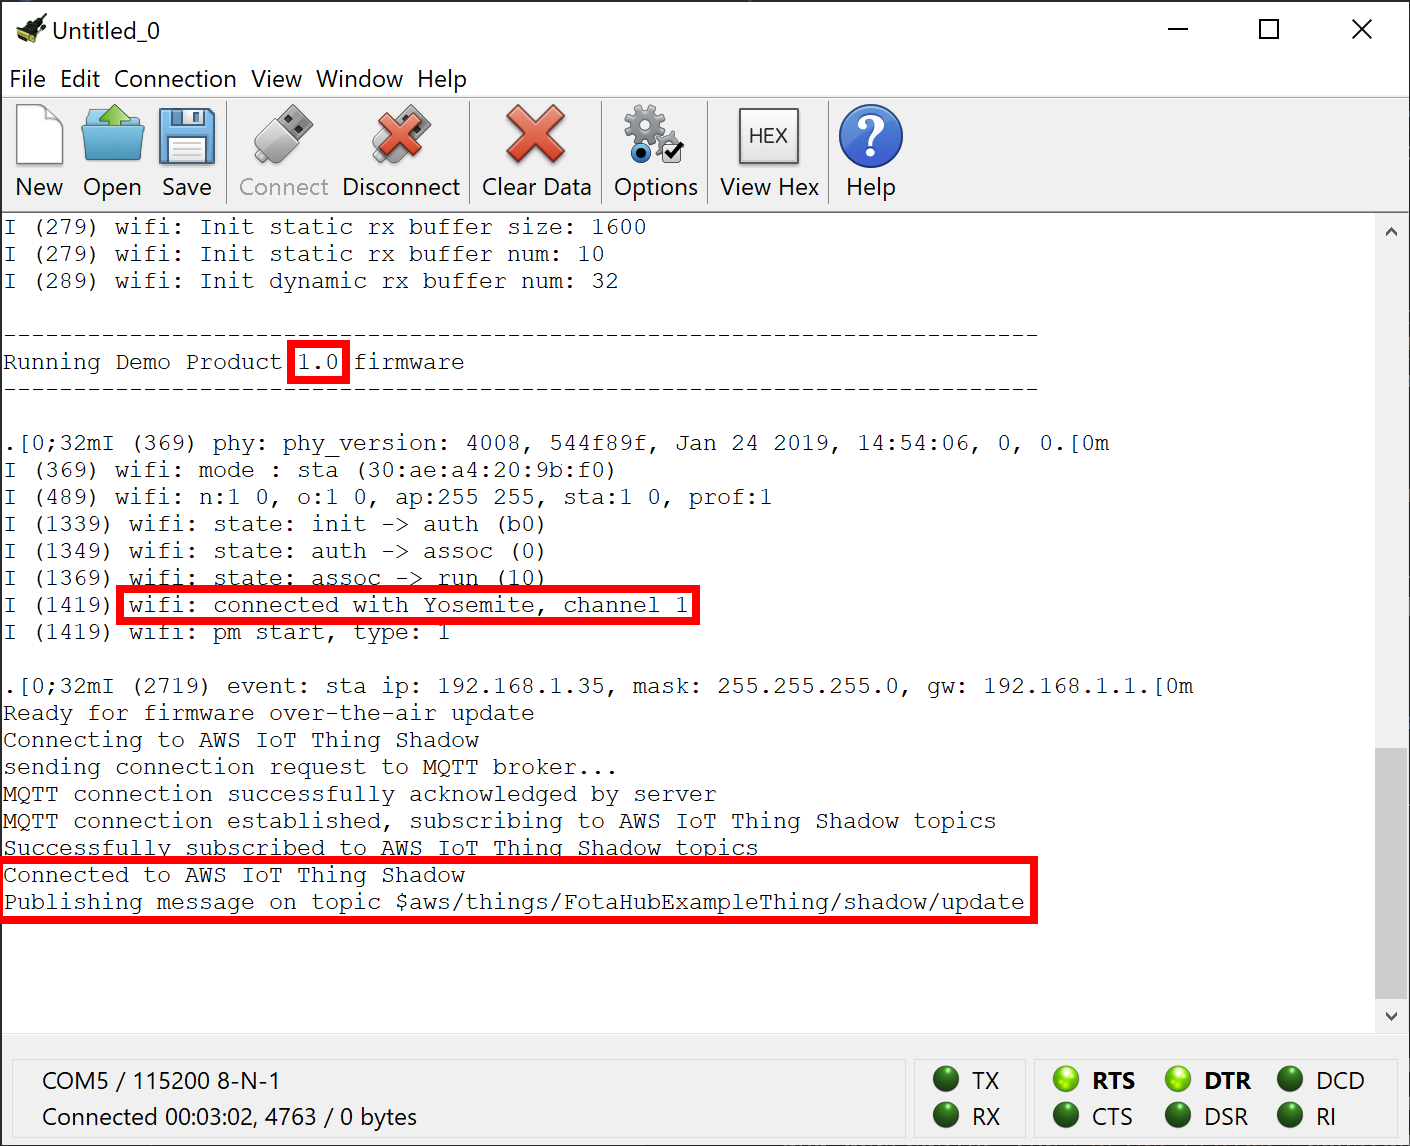
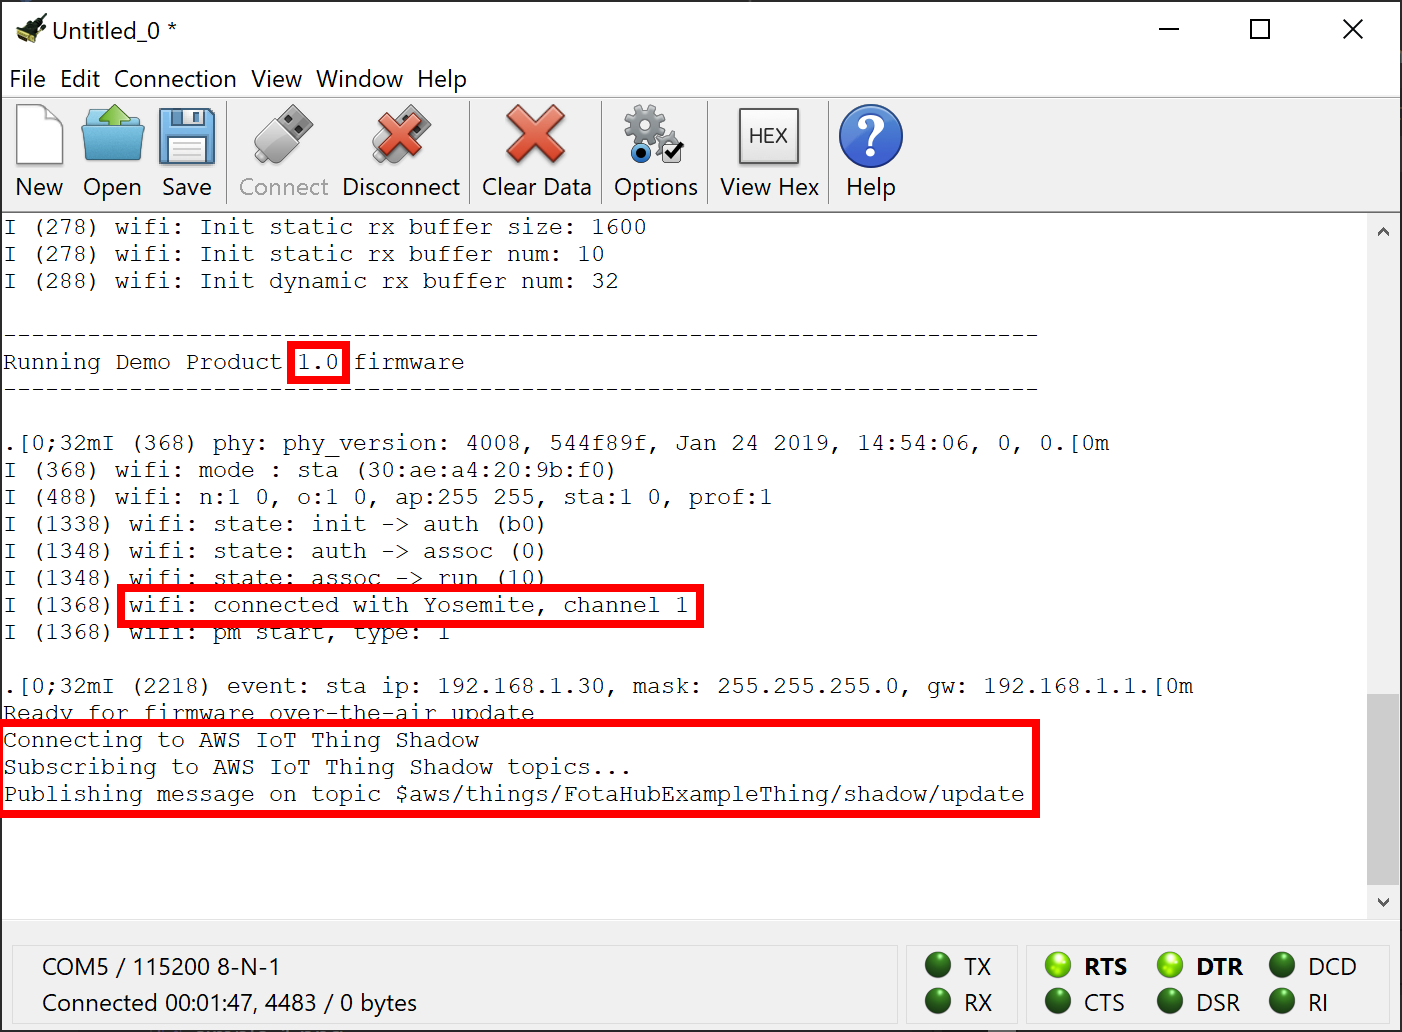
FotaHub Device SDK for ESP32 1.0.0-10

diff --git a/examples/huzzah32/thingshadow/demoproduct/MQTTClientImpl.c b/examples/huzzah32/thingshadow/demoproduct/MQTTClientImpl.c
@@ -288,8 +288,6 @@ bool MQTTClientImpl_mqttClient_sendPublishMessage(const void* hSession, char *to
 void MQTTClientImpl_mqttClient_disconnect(const void* hSession, void *___id)
 {
   MQTTClientImpl__cdata_t *___cid = ((MQTTClientImpl__cdata_t *) ___id);
-  printf("Disconnecting...\n");
-  
   MQTTSessionData_t *pSessionData = ((MQTTSessionData_t *) hSession);
   if (MQTTClientImpl_isMQTTSessionDataDeleted(pSessionData, ___cid)) 
   {
@@ -324,7 +322,6 @@ void MQTTClientImpl_clientSocketHandler_connected(const void* hSession, void *__
   }
   
   pSessionData->hSocketSession = hSession;
-  printf("sending connection request to MQTT broker...\n");
   
   (*___cid->socket__ops->sendDatagram)(hSession, pSessionData->pConnDatagram, NULL, ___cid->socket__ops->__instance);
   pSessionData->pConnDatagram = NULL;
@@ -438,7 +435,6 @@ void MQTTClientImpl_clientSocketHandler_datagramReceived(const void* hSession, D
       }
       case MQTT_MSG_PINGRESP:
       {
-        printf("Ping SUCCEEDED!\n");
         MQTTClientImpl_cleanupReceivedDatagram(pSessionData, ___cid);
         if (___cid->keepAliveTimeoutTimer__ops != NULL) 
         {
@@ -471,7 +467,6 @@ void MQTTClientImpl_clientSocketHandler_datagramReceived(const void* hSession, D
 void MQTTClientImpl_clientSocketHandler_disconnected(const void* hSession, void *___id)
 {
   MQTTClientImpl__cdata_t *___cid = ((MQTTClientImpl__cdata_t *) ___id);
-  printf("Disconnected from server!\n");
   MQTTSessionData_t *pSessionData = ((MQTTSessionData_t *)((*___cid->socket__ops->getUserData)(hSession, ___cid->socket__ops->__instance)));
   if (MQTTClientImpl_isMQTTSessionDataDeleted(pSessionData, ___cid)) 
   {
@@ -555,7 +550,7 @@ void MQTTClientImpl_keepAliveTimerHandler_expired(void *___id)
   {
     if (___cid->mqttSessions__field[__i].busy) 
     {
-      printf("Sending MQTT ping message...\n");
+      printf("Issuing MQTT ping request\n");
       Datagram_t *pingReqMsg = (*___cid->socket__ops->newDatagram)(NULL, PINGREQ_MESSAGE_LENGTH, PROTOCOL_SPECIFIC, ___cid->socket__ops->__instance);
       size_t len = ((size_t)(MQTTSerialize_pingreq(pingReqMsg->pVisiblePayload, ((int32_t)(pingReqMsg->visiblePayloadLength)))));
       if (len < PINGREQ_MESSAGE_LENGTH) 
@@ -577,10 +572,10 @@ void MQTTClientImpl_keepAliveTimeoutHandler_expired(void *___id)
 {
   MQTTClientImpl__cdata_t *___cid = ((MQTTClientImpl__cdata_t *) ___id);
   /* 
-   * be careful, this implementation is not complete and suppose that we support only one session at the same time (which is not correct)
-   * TODO A timeout timer should be associated to each session and a global timer should filters the expired ones to report ping error message...
+   * !! Important Note !! This implementation is not complete and supposes that we support only one session at the same time (which is not correct)
+   * TODO A timeout timer should be associated with each session and a global timer should filter the expired ones to report the ping error message
    */
-  printf("MQTT Ping message failed...\n");
+  printf("MQTT ping request failed\n");
   /* 
    * cancel keep alive timer to discard sending mqtt ping message
    */
@@ -617,7 +612,6 @@ void MQTTClientImpl_handleReceivedConnAckPacket(MQTTSessionData_t *pSessionData,
     return;
   }
   MQTTClientImpl_cleanupReceivedDatagram(pSessionData, ___cid);
-  printf("MQTT connection successfully acknowledged by server\n");
   (*___cid->mqttClientHandler__ops->connected)(pSessionData, ___cid->mqttClientHandler__ops->__instance);
   pSessionData->connected = true;
 }
@@ -679,14 +673,14 @@ void MQTTClientImpl_handleReceivedPublishPacket(MQTTSessionData_t *pSessionData,
   (*___cid->mqttClientHandler__ops->publishMessageReceived)(pSessionData, topicString.lenstring.data, ((size_t)(topicString.lenstring.len)), pSessionData->pReceivedDatagram, ___cid->mqttClientHandler__ops->__instance);
   MQTTClientImpl_cleanupReceivedDatagram(pSessionData, ___cid);
   /* 
-   * if qos 1 acknowledge the receiving of publish message
+   * If qos 1 acknowledge the receiving of publish message
    */
   if (qos == MQTT_QOS_1) 
   {
     /* 
-     * mqtt serialize pub ack
+     * MQTT serialize pub ack
      */
-    printf("acknowledging publish message receiving...\n");
+    printf("Acknowledging received publish message\n");
     Datagram_t *pubAckmsg = (*___cid->socket__ops->newDatagram)(pSessionData, SUBACK_MESSAGE_LENGTH, PROTOCOL_SPECIFIC, ___cid->socket__ops->__instance);
     if (MQTTSerialize_ack(pubAckmsg->pVisiblePayload, ((int32_t)(pubAckmsg->visiblePayloadLength)), MQTT_MSG_PUBACK, dup, packetID) != 1) 
     {

diff --git a/examples/huzzah32/thingshadow/demoproduct/AbstractAWSIoTMQTTThingShadowImpl.c b/examples/huzzah32/thingshadow/demoproduct/AbstractAWSIoTMQTTThingShadowImpl.c
@@ -199,7 +199,7 @@ void AbstractAWSIoTMQTTThingShadowImpl_mqttClientHandler_connected(const void* h
     return;
   }
   
-  printf("MQTT connection established, subscribing to AWS IoT Thing Shadow topics\n");
+  printf("Subscribing to AWS IoT Thing Shadow topics...\n");
   
   char updateAcceptedTopicName[MAX_AWS_IOT_THING_SHADOW_TOPIC_NAME_LENGTH + 1] = { 0 };
   char updateRejectedTopicName[MAX_AWS_IOT_THING_SHADOW_TOPIC_NAME_LENGTH + 1] = { 0 };
@@ -241,7 +241,7 @@ void AbstractAWSIoTMQTTThingShadowImpl_mqttClientHandler_subscribed(const void* 
   {
     if (grantedQoS[__i] == MQTT_QOS_FAILURE) 
     {
-      printf("failed to subsbcribe to topic id %hi\n", __i);
+      printf("Failed to subsbcribe to MQTT topic with id %hi\n", __i);
       for ( uint8_t ___pc = 0 ; ___pc < MAX_AWS_IOT_THING_SHADOW_HANDLER_COUNT; ___pc++ )
       {
         if (___cid->awsIoTThingShadowHandlers__ops[___pc] != NULL && ___cid->awsIoTThingShadowHandlers__ops[___pc]->__instance != NULL) 
@@ -252,7 +252,6 @@ void AbstractAWSIoTMQTTThingShadowImpl_mqttClientHandler_subscribed(const void* 
       return;
     }
   }
-  printf("Successfully subscribed to AWS IoT Thing Shadow topics\n");
   for ( uint8_t ___pc = 0 ; ___pc < MAX_AWS_IOT_THING_SHADOW_HANDLER_COUNT; ___pc++ )
   {
     if (___cid->awsIoTThingShadowHandlers__ops[___pc] != NULL && ___cid->awsIoTThingShadowHandlers__ops[___pc]->__instance != NULL) 
@@ -264,7 +263,7 @@ void AbstractAWSIoTMQTTThingShadowImpl_mqttClientHandler_subscribed(const void* 
 
 void AbstractAWSIoTMQTTThingShadowImpl_mqttClientHandler_published(const void* hSession, void *___id)
 {
-  printf("MQTT publish message sent\n");
+  
 }
 
 void AbstractAWSIoTMQTTThingShadowImpl_mqttClientHandler_publishMessageReceived(const void* hSession, char *topicName, size_t topicNameLen, Datagram_t *pDatagram, void *___id)
@@ -324,7 +323,6 @@ void AbstractAWSIoTMQTTThingShadowImpl_mqttClientHandler_publishMessageReceived(
 void AbstractAWSIoTMQTTThingShadowImpl_mqttClientHandler_disconnected(const void* hSession, void *___id)
 {
   AbstractAWSIoTMQTTThingShadowImpl__cdata_t *___cid = ((AbstractAWSIoTMQTTThingShadowImpl__cdata_t *) ___id);
-  printf("Disconnected from MQTT\n");
   AWSIoTSessionData_t *pSessionData = ((AWSIoTSessionData_t *)((*___cid->mqttClient__ops->getUserData)(hSession, ___cid->mqttClient__ops->__instance)));
   if (AbstractAWSIoTMQTTThingShadowImpl_isAWSIoTDataDeleted(pSessionData, ___cid)) 
   {

diff --git a/examples/huzzah32/thingshadow/demoproduct/SinglePartitionMbedTLSAWSIoTThingShadowWiring.c b/examples/huzzah32/thingshadow/demoproduct/SinglePartitionMbedTLSAWSIoTThingShadowWiring.c
@@ -19,6 +19,7 @@
 
 #include "FotaHub.h"
 #include "DemoFOTAUpdateWorkflow.h"
+#include <string.h>
 
 static inline void awsIoTThingShadowInstances_thingShadowIOHandlerInst__wire(void);
 
@@ -240,6 +241,7 @@ static inline void awsIoTThingShadowInstances_thingShadowStack_thingShadowInst__
   /* 
    * INSTANCE: thingShadowStack_thingShadowInst
    */
+  memset(awsIoTThingShadowInstances_thingShadowStack_thingShadowInst__instance.baseComponentData.awsIoTRequests__field, 0, sizeof(awsIoTThingShadowInstances_thingShadowStack_thingShadowInst__instance.baseComponentData.awsIoTRequests__field));
   /* 
    * prov port
    */
@@ -324,6 +326,7 @@ static inline void awsIoTThingShadowInstances_thingShadowStack_mqttClientInst__w
   /* 
    * INSTANCE: thingShadowStack_mqttClientInst
    */
+  memset(awsIoTThingShadowInstances_thingShadowStack_mqttClientInst__instance.mqttSessions__field, 0, sizeof(awsIoTThingShadowInstances_thingShadowStack_mqttClientInst__instance.mqttSessions__field));
   /* 
    * prov port
    */

diff --git a/examples/huzzah32/thingshadow/demoproduct/AWSIoTThingShadowGateImpl.c b/examples/huzzah32/thingshadow/demoproduct/AWSIoTThingShadowGateImpl.c
@@ -96,7 +96,6 @@ bool AWSIoTThingShadowGateImpl_awsThingShadowEngine__execute(awsThingShadowEngin
            */
           bool __transitionResult = true;
           
-          printf("Connected to AWS IoT Thing Shadow\n");
           ___cid->awsIoTThingShadowSession__field = (*((void const **)((arguments[0]))));
           if (!AWSIoTThingShadowGateImpl_updateThingShadowState(___cid)) 
           {

diff --git a/examples/huzzah32/thingshadow/demoproduct/AWSIoTMQTTThingShadowImpl.c b/examples/huzzah32/thingshadow/demoproduct/AWSIoTMQTTThingShadowImpl.c
@@ -41,6 +41,7 @@ const void* AWSIoTMQTTThingShadowImpl_thingShadow_connect(AWSIoTConnectionParame
     AbstractAWSIoTMQTTThingShadowImpl_deleteAWSIoTData(pSessionData, ___cid);
     return NULL;
   }
+  
   if (mqttConnParams->clientID == NULL) 
   {
     mqttConnParams->clientID = pSessionData->pConnectionParams->thingName;

diff --git a/examples/huzzah32/thingshadow/demoproduct/AWSIoTX509CertStoreImpl.c b/examples/huzzah32/thingshadow/demoproduct/AWSIoTX509CertStoreImpl.c
@@ -17,6 +17,8 @@
  */
 #include "AWSIoTX509CertStoreImpl.h"
 
+#include <string.h>
+
 extern uint8_t const  AWSIoTX509CertStoreImpl_AWS_IOT_ROOT_CA_1_start[] asm("_binary_AmazonRootCA1_pem_start");
 extern uint8_t const  AWSIoTX509CertStoreImpl_AWS_IOT_ROOT_CA_1_end[] asm("_binary_AmazonRootCA1_pem_end");
 

diff --git a/docs/getting-started/thingshadow.md b/docs/getting-started/thingshadow.md
@@ -1,6 +1,6 @@
 # AWS IoT Thing Shadow-driven FOTA update example
 
-The *Thing Shadow* example demonstrates a real-world firmware over-the-air update procedure using the AWS IoT Thing Shadow (aka Device Shadow) service. The thing shadow is used to trigger firmware over-the-air updates on the device that it represents through the cloud. Thanks to that, the device itself can be located in any place where Wi-Fi and Internet are available and does no longer need to be connected to a USB port of your laptop or computer as with the [Simple](simple.md) and [Revertible](revertible.md) examples. The thing shadow example also makes sure that misbehaving firmware updates are reverted to the previous version.
+The *Thing Shadow* example demonstrates a real-world firmware over-the-air update procedure using the AWS IoT Thing Shadow (aka Device Shadow) service. The thing shadow is used to trigger firmware over-the-air updates on the device it represents through the cloud. Thanks to that, the device itself can be located in any place where Wi-Fi and Internet are available and does no longer need to be connected to a USB port of your laptop or computer as with the [Simple](simple.md) and [Revertible](revertible.md) examples. The thing shadow example also detects misbehaving firmware updates and reverts them to the previous version.
 
 ## Technical context
 
